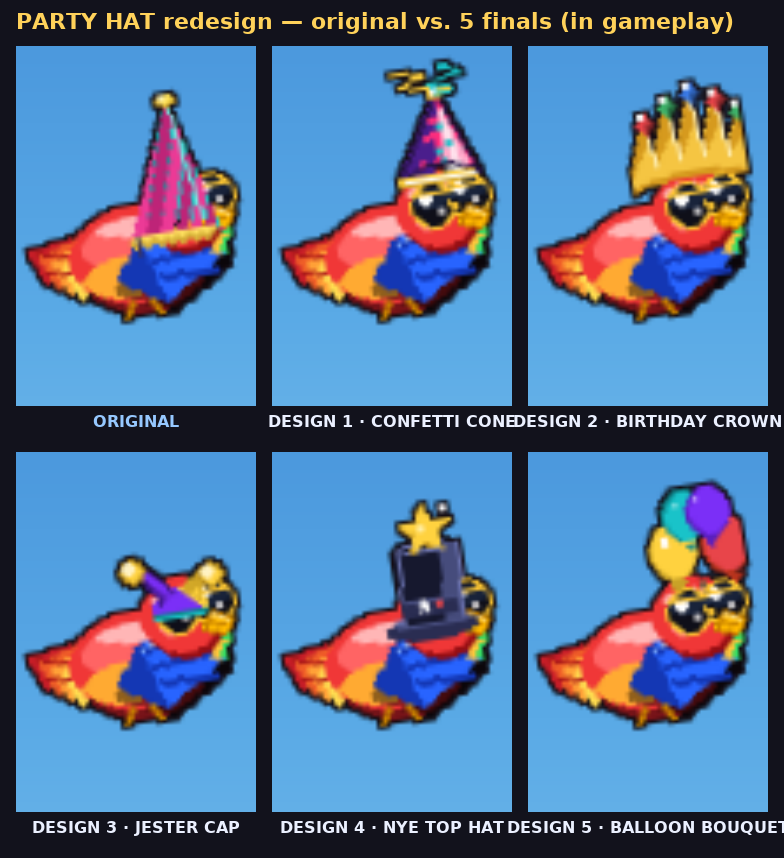
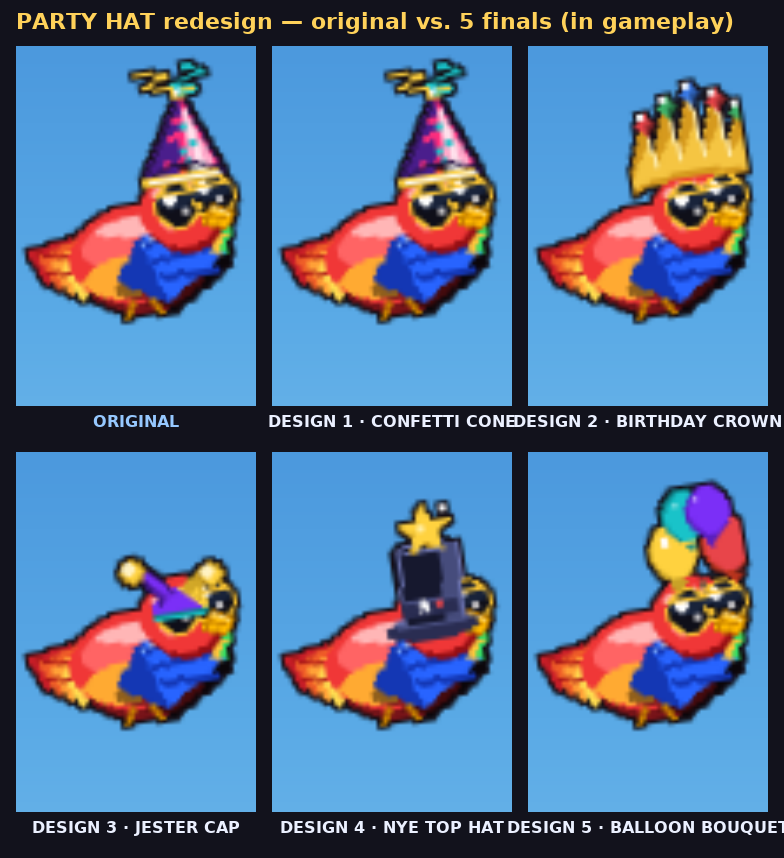
Replace party hat with Confetti Cone (Design 1)
Ports the R2-approved CONFETTI CONE builder into game/hat_partyhat.py —
magenta/indigo foil cone with white specular sheen, confetti dots, gold
base collar, and curly gold+teal ribbon streamers. Updates the in-game
seat to hw=24 dx=2 dy=-3 so the cone clears the canvas top with room for
the streamers. Design 5 (Balloon Bouquet) stays as a scratch candidate in
tools/partyhat_candidates/.

Changed region(s): [[0.1531, 0.0606, 0.3061, 0.303]]

diff --git a/game/hat_partyhat.py b/game/hat_partyhat.py
@@ -1,178 +1,202 @@
+"""CONFETTI CONE party hat — foil-sheen magenta cone with confetti dots,
+a gold base collar, and curly ribbon streamers off the tip."""
 import math
 
 import pygame
 
-
-# Vivid party colorway: teal cone with magenta diagonal stripes and a yellow
-# pom. Layered flat tones (not a gradient) keep the read crisp at head_w~18 where
-# blends muddy; a single lighter rib down the lit side fakes the cone's volume.
-_CONE = (38, 196, 196)
-_CONE_HI = (120, 230, 226)
-_CONE_LO = (22, 150, 156)
-_STRIPE = (236, 58, 150)
-_STRIPE_LO = (190, 36, 120)
-_TRIM = (255, 224, 96)
-_TRIM_LO = (214, 176, 56)
-_POM = (255, 226, 86)
-_POM_HI = (255, 246, 178)
-_POM_LO = (220, 178, 48)
-_ELASTIC = (60, 52, 90)
-
-
-def _lerp(a, b, t):
-    return (
-        int(a[0] + (b[0] - a[0]) * t),
-        int(a[1] + (b[1] - a[1]) * t),
-        int(a[2] + (b[2] - a[2]) * t),
-    )
+_FOIL = (255, 46, 126)        # #FF2E7E magenta foil (lit flank)
+_FOIL_LO = (74, 30, 140)      # deep indigo — shaded flank; real value range vs
+                              # Pip's warm body so the cone never merges on a
+                              # bright day sky.
+_FOIL_HI = (255, 255, 255)    # foil specular band
+# Near-black violet keyline rings the whole silhouette so the warm-hued cone
+# stays separated from Pip's warm body against the day sky.
+_KEYLINE = (40, 20, 70)
+_GOLD = (255, 210, 63)        # #FFD23F
+_TEAL = (25, 195, 201)        # #19C3C9
+_WHITE = (245, 248, 255)
+_TRIM = (255, 210, 63)
+_TRIM_LO = (214, 168, 40)
+_MAGENTA = (255, 46, 126)
+_RIBBON = ((255, 210, 63), (25, 195, 201))   # gold + teal
 
 
 def draw_hat(surf, cx, base_y, head_w, facing=1):
-    """Draw a side-profile PARTY HAT sized for a head of width head_w, centered at cx, base line at base_y."""
-    # All geometry scales off head_w so the cone survives big and small.
+    """Side-profile CONFETTI CONE sized for a head of width head_w, centred at
+    cx with the base line at base_y."""
     r = head_w * 0.5
     f = 1 if facing >= 0 else -1
 
-    # A party hat is TALL — the tip rises ~1.4x head_w above the base. The cone
-    # leans slightly forward at facing=1 so it reads as worn, not balanced.
-    tip_x = cx + f * r * 0.18
-    tip_y = base_y - head_w * 1.42
-    base_hw = r * 0.96  # half-width of the cone where it meets the head
-    # The base sits a touch above base_y so the scalloped trim and the curved
-    # underside can wrap down onto the round head's crown.
-    base_cy = base_y - r * 0.22
+    # Cone leans a hair forward so it reads as worn. Height held compact (~0.92x
+    # head_w) so the full cone+streamers fit the ~31px of headroom above the
+    # crown in the 64x100 composite.
+    tip_x = cx + f * r * 0.20
+    tip_y = base_y - head_w * 0.92
+    base_hw = r * 0.94
+    base_cy = base_y - r * 0.20
 
     left_x = cx - base_hw
     right_x = cx + base_hw
-
-    # Underside curves UP into the cone so it seats on a round head rather than
-    # cutting a flat line across the crown.
-    seat_dip = r * 0.34
+    seat_dip = r * 0.32
 
     def underside(n=18):
         out = []
         for i in range(n + 1):
             t = i / n
             x = left_x + (right_x - left_x) * t
-            # parabola: lowest (seated) at the edges, lifted under the centre
             lift = seat_dip * (1.0 - 4.0 * (t - 0.5) ** 2)
             out.append((x, base_cy + r * 0.30 - lift))
         return out
 
     bottom = underside()
+    base_y_line = base_cy + r * 0.30
 
-    # Solid cone body.
+    # Solid foil body in the lit tone.
     cone = [(tip_x, tip_y)] + bottom
-    pygame.draw.polygon(surf, _CONE, cone)
+    pygame.draw.polygon(surf, _FOIL, cone)
 
-    # Shade the trailing flank a step darker for cheap roundness.
+    # Trailing flank a step darker (deep indigo) for cheap metallic roundness
+    # and a true lit/shade value split.
     shade = [
         (tip_x, tip_y),
-        (cx, base_cy + r * 0.30 - seat_dip),
+        (cx + f * -r * 0.10, base_y_line),
         bottom[0] if f >= 0 else bottom[-1],
     ]
-    pygame.draw.polygon(surf, _CONE_LO, shade)
+    pygame.draw.polygon(surf, _FOIL_LO, shade)
 
-    # Diagonal stripes wrap the cone — gated off below ~22px so the tiny hat
-    # stays a clean cone+pom silhouette instead of a muddy band.
+    # Foil specular: a vertical white sheen band down the lit side.
+    _draw_sheen(surf, tip_x, tip_y, left_x, right_x, base_y_line, r, f)
+
+    # Confetti scatter gated off below ~22px so the tiny hat stays a clean
+    # cone+ribbon silhouette.
     if head_w >= 22:
-        _draw_stripes(surf, tip_x, tip_y, left_x, right_x, base_cy, r, seat_dip, f)
+        _draw_confetti(surf, tip_x, tip_y, left_x, right_x, base_y_line, r, f)
 
-    # A bright rib down the lit edge sells the cone's curvature.
-    lit_edge = right_x if f >= 0 else left_x
-    rib_w = max(1, int(r * 0.10))
-    pygame.draw.line(surf, _CONE_HI, (tip_x, tip_y),
-                     ((tip_x + lit_edge) * 0.5, base_cy + r * 0.05), rib_w)
+    # Dark keyline around the full cone silhouette drawn over body+sheen.
+    kw = max(1, int(r * 0.10))
+    pygame.draw.polygon(surf, _KEYLINE, cone, kw)
 
-    # Scalloped trim ring the base. Bumps scale with head_w; a smooth band stands
-    # in below the scallop threshold so small sizes keep a tidy collar.
-    _draw_trim(surf, left_x, right_x, base_cy, r, head_w)
+    # Gold foil collar at the base.
+    _draw_trim(surf, left_x, right_x, base_cy, r)
 
-    # Hint of chin elastic dropping from the trailing base corner.
-    chin_x = (left_x if f >= 0 else right_x)
-    elastic_w = max(1, int(r * 0.07))
-    pygame.draw.line(surf, _ELASTIC,
-                     (chin_x + f * r * 0.04, base_cy + r * 0.22),
-                     (chin_x + f * r * 0.10, base_cy + r * 0.62), elastic_w)
-
-    # Fluffy pom-pom on the very tip.
-    _draw_pom(surf, tip_x, tip_y, r)
+    # Curly ribbon streamers spiralling off the tip, above a small foil pom.
+    _draw_pom(surf, tip_x, tip_y, r, head_w)
+    _draw_streamers(surf, tip_x, tip_y, r, f, head_w)
 
 
-def _draw_stripes(surf, tip_x, tip_y, left_x, right_x, base_cy, r, seat_dip, f):
-    # Stripes are quads that fan from near the tip down to the base, clipped to
-    # the cone by a polygon mask so they never spill past the silhouette.
-    base_y_line = base_cy + r * 0.30
-    cone_mask = [
-        (tip_x, tip_y),
-        (left_x, base_y_line),
-        (right_x, base_y_line),
-    ]
+def _draw_sheen(surf, tip_x, tip_y, left_x, right_x, base_y_line, r, f):
     mask_rect = pygame.Rect(int(left_x - 2), int(tip_y - 2),
-                            int(right_x - left_x + 4), int(base_y_line - tip_y + 4))
+                            int(right_x - left_x + 4),
+                            int(base_y_line - tip_y + 4))
     if mask_rect.width <= 0 or mask_rect.height <= 0:
         return
-    layer = pygame.Surface(mask_rect.size, pygame.SRCALPHA)
     ox, oy = mask_rect.left, mask_rect.top
+    layer = pygame.Surface(mask_rect.size, pygame.SRCALPHA)
 
-    span = right_x - left_x
-    n = 5
-    sw = span / (n + 1)
-    for i in range(-1, n + 2):
-        # Slant each band forward so the stripes read as diagonal wraps.
-        x0 = left_x + i * sw
-        slant = span * 0.42 * f
-        quad = [
-            (x0 - ox, base_y_line - oy),
-            (x0 + sw * 0.6 - ox, base_y_line - oy),
-            (x0 + sw * 0.6 + slant - ox, tip_y - oy),
-            (x0 + slant - ox, tip_y - oy),
-        ]
-        col = _STRIPE if (i % 2 == 0) else _STRIPE_LO
-        pygame.draw.polygon(layer, col + (255,), quad)
+    # Sheen tracks the lit base edge up toward the tip, narrowing as the cone
+    # narrows, so it reads as a surface highlight rather than a flat stripe.
+    lit_base = (right_x if f >= 0 else left_x) - f * (right_x - left_x) * 0.20
+    bw = (right_x - left_x) * 0.16
+    band = [
+        (lit_base - bw - ox, base_y_line - oy),
+        (lit_base + bw - ox, base_y_line - oy),
+        (tip_x + f * r * 0.10 - ox, tip_y + r * 0.4 - oy),
+        (tip_x - f * r * 0.02 - ox, tip_y + r * 0.4 - oy),
+    ]
+    pygame.draw.polygon(layer, _FOIL_HI + (150,), band)
+    # A thin hot core inside the band reads as the brightest specular line.
+    core = [
+        (lit_base - bw * 0.35 - ox, base_y_line - oy),
+        (lit_base + bw * 0.2 - ox, base_y_line - oy),
+        (tip_x + f * r * 0.06 - ox, tip_y + r * 0.4 - oy),
+    ]
+    pygame.draw.polygon(layer, _FOIL_HI + (220,), core)
 
     mask = pygame.Surface(mask_rect.size, pygame.SRCALPHA)
     pygame.draw.polygon(mask, (255, 255, 255, 255),
-                        [(p[0] - ox, p[1] - oy) for p in cone_mask])
+                        [(tip_x - ox, tip_y - oy),
+                         (left_x - ox, base_y_line - oy),
+                         (right_x - ox, base_y_line - oy)])
     layer.blit(mask, (0, 0), special_flags=pygame.BLEND_RGBA_MULT)
     surf.blit(layer, (ox, oy))
 
 
-def _draw_trim(surf, left_x, right_x, base_cy, r, head_w):
-    band_y = base_cy + r * 0.26
-    band_h = max(2, int(r * 0.20))
+def _draw_confetti(surf, tip_x, tip_y, left_x, right_x, base_y_line, r, f):
+    # Barycentric spots inside the cone triangle — deterministic so the dots
+    # don't jitter frame to frame.
+    spots = ((0.55, 0.30), (0.72, 0.55), (0.40, 0.62), (0.82, 0.30),
+             (0.62, 0.78), (0.50, 0.42), (0.86, 0.62), (0.34, 0.40))
+    dot = max(1, int(r * 0.11))
+    div_v = 0.5 - f * 0.10 / 2.0
+    for u, v in spots:
+        bx = left_x + (right_x - left_x) * v
+        x = tip_x + (bx - tip_x) * u
+        y = tip_y + (base_y_line - tip_y) * u
+        on_shade = (v < div_v) if f >= 0 else (v > div_v)
+        col = _MAGENTA if on_shade else (_WHITE if (int(u * 100) % 2) else _TEAL)
+        pygame.draw.circle(surf, col, (int(x), int(y)), dot)
+        if dot >= 2:
+            pygame.draw.circle(surf, _FOIL_HI,
+                               (int(x - dot * 0.3), int(y - dot * 0.3)),
+                               max(1, dot // 2))
+
+
+def _draw_trim(surf, left_x, right_x, base_cy, r):
+    band_y = base_cy + r * 0.24
+    band_h = max(3, int(r * 0.20) + 1)
     pygame.draw.rect(surf, _TRIM_LO,
                      (int(left_x), int(band_y), int(right_x - left_x), band_h))
     pygame.draw.rect(surf, _TRIM,
                      (int(left_x), int(band_y), int(right_x - left_x),
                       max(1, band_h - 1)))
-
-    # Scalloped bumps below the band, gated so tiny hats keep a clean collar.
-    if head_w >= 20:
-        bump_r = max(2, int(r * 0.14))
-        step = bump_r * 1.7
-        x = left_x + bump_r * 0.4
-        bump_cy = band_y + band_h
-        while x <= right_x - bump_r * 0.4:
-            pygame.draw.circle(surf, _TRIM_LO, (int(x), int(bump_cy)), bump_r)
-            pygame.draw.circle(surf, _TRIM, (int(x), int(bump_cy - 1)),
-                               max(1, bump_r - 1))
-            x += step
+    inset = r * 0.18
+    pygame.draw.line(surf, _FOIL_HI,
+                     (int(left_x + inset), int(band_y + 1)),
+                     (int(right_x - inset), int(band_y + 1)), 1)
 
 
-def _draw_pom(surf, tip_x, tip_y, r):
-    pom_r = max(2, int(r * 0.30))
-    cx, cy = tip_x, tip_y
-    # Cluster of small blobs reads as fluff better than one flat disc; the back
-    # blobs sit darker, a front-top highlight catches the light.
-    offs = [
-        (-0.6, 0.2, _POM_LO), (0.6, 0.2, _POM_LO), (0.0, 0.55, _POM_LO),
-        (-0.35, -0.25, _POM), (0.35, -0.25, _POM), (0.0, 0.05, _POM),
-    ]
+def _draw_pom(surf, tip_x, tip_y, r, head_w):
+    pom_r = max(2, int(r * 0.22))
+    if head_w < 22:
+        pygame.draw.circle(surf, _KEYLINE, (int(tip_x), int(tip_y)),
+                           pom_r + 1)
+        pygame.draw.circle(surf, _GOLD, (int(tip_x), int(tip_y)), pom_r)
+        pygame.draw.circle(surf, _FOIL_HI,
+                           (int(tip_x - pom_r * 0.3), int(tip_y - pom_r * 0.3)),
+                           max(1, int(pom_r * 0.4)))
+        return
+    offs = [(-0.5, 0.25, _GOLD), (0.5, 0.25, _TRIM_LO), (0.0, 0.5, _TRIM_LO),
+            (-0.3, -0.15, _GOLD), (0.3, -0.15, _GOLD)]
     for dx, dy, col in offs:
         pygame.draw.circle(surf, col,
-                           (int(cx + dx * pom_r), int(cy + dy * pom_r)),
-                           max(1, int(pom_r * 0.62)))
-    pygame.draw.circle(surf, _POM_HI,
-                       (int(cx - pom_r * 0.2), int(cy - pom_r * 0.3)),
-                       max(1, int(pom_r * 0.34)))
+                           (int(tip_x + dx * pom_r), int(tip_y + dy * pom_r)),
+                           max(1, int(pom_r * 0.6)))
+    pygame.draw.circle(surf, _FOIL_HI,
+                       (int(tip_x - pom_r * 0.2), int(tip_y - pom_r * 0.2)),
+                       max(1, int(pom_r * 0.32)))
+
+
+def _draw_streamers(surf, tip_x, tip_y, r, f, head_w):
+    # Curly ribbon streamers springing off the tip — polyline whose x oscillates
+    # with a decaying sine as y rises, reading as a tight spiral corkscrew.
+    if head_w < 18:
+        return
+    lw = max(1, int(r * 0.13))
+    n = 14
+    configs = (
+        (_RIBBON[0], -0.55 * f, 0.65, 0.55, 3.2),
+        (_RIBBON[1],  0.35 * f, 0.75, 0.42, 3.8),
+    )
+    for col, fan, reach, amp, freq in configs:
+        pts = []
+        for i in range(n + 1):
+            t = i / n
+            y = tip_y - r * reach * t
+            curl = math.sin(t * freq * math.pi) * (amp * r) * (1.0 - t * 0.35)
+            x = tip_x + fan * r * t * 1.4 + curl
+            pts.append((int(x), int(y)))
+        if len(pts) >= 2:
+            pygame.draw.lines(surf, col, False, pts, lw)
+            if lw >= 2:
+                hi = tuple(min(255, c + 60) for c in col)
+                pygame.draw.lines(surf, hi, False, pts[: n // 2], 1)

diff --git a/game/hat_skins.py b/game/hat_skins.py
@@ -79,7 +79,7 @@ _HEAD_HW = 30
 #   hw  head width the hat is sized to     facing  +1 bill points forward
 # Tuned against an on-Pip render with the crown anchor + head circle overlaid.
 _SEAT = {
-    "skin_hat_partyhat":  {"hw": 26, "dx": -2, "dy": 13},
+    "skin_hat_partyhat":  {"hw": 24, "dx": 2, "dy": -3},
     "skin_hat_strawhat":  {"dy": 1},
     "skin_hat_beanie":    {"hw": 28, "dy": 6},
     "skin_hat_beret":     {"dx": -7, "dy": 13},
